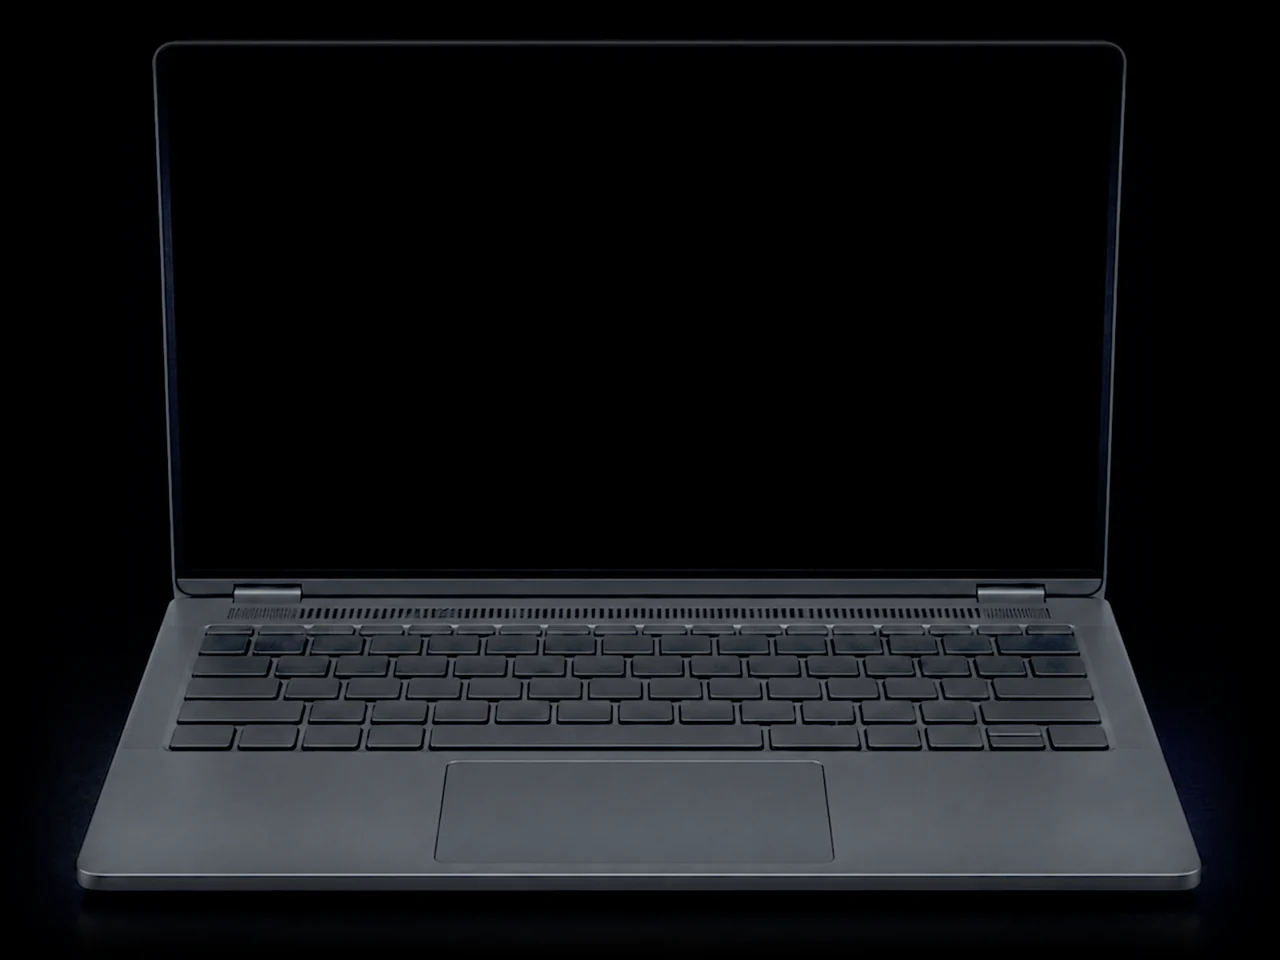
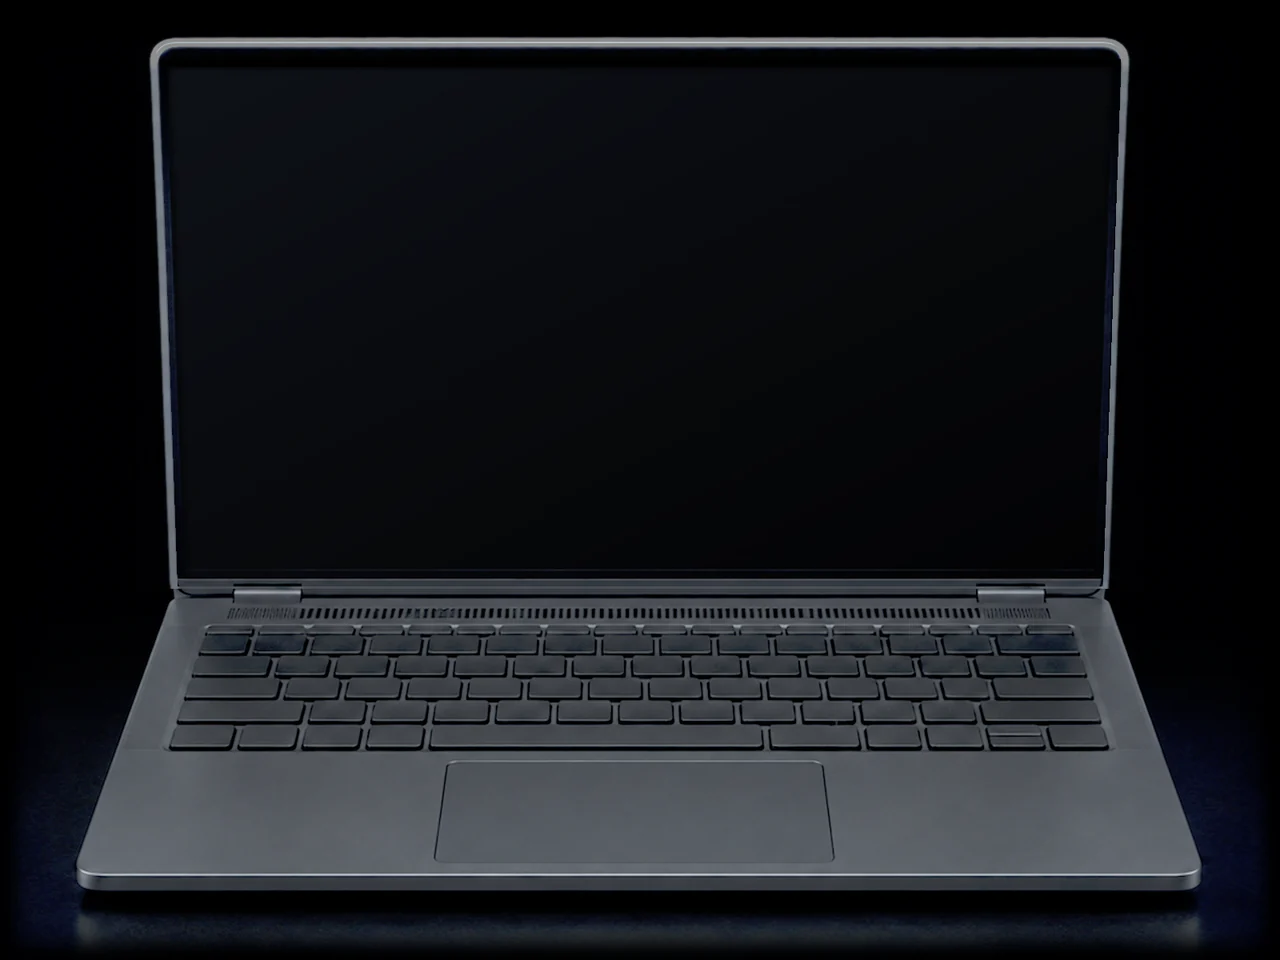
feat(site): lift the laptop with its inside awake, and give the lid a rim and a sheen
The laptop that is running was dimmer than the laptop before power, and the lid of both was a thin outline around pure black. The picture with the inside awake gets the same lift as the one before power, keeping the hue of its warm light; the lid's rim is widened so it survives being made small, the glass gets a faint cool sheen, and the edge fade no longer reaches the top rim. The body of the laptop with its screen lit is lifted to match. The script prints every region before and after.

diff --git a/site/tools/make_assets.py b/site/tools/make_assets.py
@@ -13,11 +13,16 @@ repository. This script turns them into what the site ships:
   src/assets/parts.json          where each part lies on the board, as fractions of the plate
   public/og.jpg                  the picture a link to the site is previewed with, 1200 x 630
 
-The two pictures of the machine before power are lifted on the way: their
-midtones and lit edges are raised so the machine reads as an object on an
-ordinary screen in a lit room, while the background stays black and nothing
-looks switched on. The script prints the mean brightness of the machine
-before and after.
+Four pictures are lifted on the way: the laptop and the board before power,
+the laptop with its inside awake, and the body (not the screen) of the laptop
+with its screen lit. Their midtones and lit edges are raised
+so the machine reads as an object on an ordinary screen in a lit room, while
+the background stays black and the machine before power does not look switched
+on. The lid of the two laptops with a dark screen gets a second, local lift:
+its thin rim is made a few pixels wider and brighter, and the glass gets a
+faint cool sheen, so the lid reads as a surface and not as a hole. The script
+prints the mean brightness of each machine, and of its palm rest, rim and
+glass, before and after.
 
 A stop's picture is not a file. The page stacks board-awake over board-dark
 once per part, each copy cut out by that part's mask, and fades the copies in.
@@ -42,6 +47,9 @@ BOARD_OUT = (1920, 1200)
 # The laptop with a margin, in source pixels: left, top, right, bottom.
 LAPTOP_BOX = (400, 250, 2000, 1450)
 LAPTOP_OUT = (1280, 960)
+# How far in from each edge the laptop pictures melt into black, in output pixels. The lid's top rim lies 40
+# pixels in, so the melt ends before it: a wider one dimmed the rim to a third.
+EDGE_FADE = 18
 MASK_OUT = (600, 375)
 FEATHER = 70  # in source pixels
 WHOLE_FEATHER = 160
@@ -53,8 +61,39 @@ WHOLE = [(0, 660), (2400, 660), (2400, 1500), (0, 1500)]
 # stays black. `box` is where the machine lies in the source picture, for the measurement.
 LIFT = {
     "laptop-dark": {"gamma": 0.55, "gain": 1.05, "black": 4, "full": 14, "box": (480, 290, 1910, 1380)},
+    "laptop-inside-awake": {
+        "gamma": 0.55,
+        "gain": 1.05,
+        "black": 4,
+        "full": 14,
+        "keep_colour": True,
+        "box": (480, 290, 1910, 1380),
+    },
     "board-dark": {"gamma": 0.62, "gain": 1.0, "black": 1.5, "full": 7, "box": (0, 660, 2400, 1500)},
+    # The laptop with its screen lit: only the body under the hinge is lifted, and less, so that it is as
+    # bright as the same body in the picture before it. The lit screen is left as it is.
+    "laptop-awake": {
+        "gamma": 0.75,
+        "gain": 1.05,
+        "black": 4,
+        "full": 14,
+        "keep_colour": True,
+        "below": 992,
+        "box": (480, 290, 1910, 1380),
+    },
 }
+
+# The lid of the laptop, in source pixels: the box its rim lies in, and the glass inside the rim.
+LID_BOX = (570, 296, 1830, 986)
+GLASS = [(610, 334), (1790, 334), (1768, 972), (632, 972)]
+RIM_WIDEN = 7  # the rim grows by half of this on each side
+RIM_GAIN = 1.3
+RIM_CAP = 140  # the widened rim is no brighter than this; pixels that were brighter keep their own value
+# The sheen on the glass: a cool grey, strongest at the top left corner and falling away to the bottom right.
+SHEEN = ((14, 17, 23), (2, 2, 3))
+# Parts of the laptop that are measured, in source pixels.
+PALM_REST = (700, 1230, 1100, 1330)
+RIM_TOP = (700, 300, 1700, 330)
 
 # The parts of the board, as polygons in source pixels.
 REGIONS = {
@@ -78,15 +117,35 @@ def on_black(path: Path) -> Image.Image:
     return Image.alpha_composite(black, plate).convert("RGB")
 
 
-def lift(picture: Image.Image, gamma: float, gain: float, black: float, full: float) -> Image.Image:
-    """Raise midtones and lit edges, level by level, and leave what is black as it is."""
+def lift(
+    picture: Image.Image,
+    gamma: float,
+    gain: float,
+    black: float,
+    full: float,
+    keep_colour: bool = False,
+    below: int | None = None,
+) -> Image.Image:
+    """
+    Raise midtones and lit edges, level by level, and leave what is black as it is. With `keep_colour` only
+    the brightness is raised: hue and saturation stay as they were, so a warm light stays as warm. With
+    `below`, only the part of the picture under that row is changed, with a soft edge.
+    """
     curve = []
     for level in range(256):
         t = min(1.0, max(0.0, (level - black) / (full - black)))
         t = t * t * (3 - 2 * t)
         raised = min(255.0, 255 * gain * (level / 255) ** gamma)
         curve.append(round(level + (raised - level) * t))
-    return picture.point(curve * 3)
+    raised = picture.point(curve * 3)
+    if keep_colour:
+        hue, saturation, _ = picture.convert("HSV").split()
+        raised = Image.merge("HSV", (hue, saturation, raised.convert("HSV").getchannel("V"))).convert("RGB")
+    if below is None:
+        return raised
+    under = Image.new("L", picture.size, 0)
+    ImageDraw.Draw(under).rectangle((0, below, picture.size[0], picture.size[1]), fill=255)
+    return Image.composite(raised, picture, under.filter(ImageFilter.GaussianBlur(10)))
 
 
 def brightness(picture: Image.Image, box: tuple[int, int, int, int]) -> float:
@@ -94,16 +153,56 @@ def brightness(picture: Image.Image, box: tuple[int, int, int, int]) -> float:
     return ImageStat.Stat(picture.crop(box).convert("L")).mean[0]
 
 
-def lifted(plates: Path, name: str) -> Image.Image:
-    """A picture of the machine before power, lifted, with its measurement printed."""
+def lid_lift(picture: Image.Image) -> Image.Image:
+    """Widen and brighten the rim of the lid, and lay a faint cool sheen on its glass. Nothing else changes."""
+    lid = picture.crop(LID_BOX)
+    # The rim: every pixel takes the brightest value near it, so a line two pixels wide survives being made small.
+    wide = lid.filter(ImageFilter.MaxFilter(RIM_WIDEN)).filter(ImageFilter.GaussianBlur(0.8))
+    wide = wide.point([min(RIM_CAP, round(level * RIM_GAIN)) for level in range(256)] * 3)
+    # Only the rim is widened: the glass inside it and the hinge under it keep their own pixels.
+    glass = Image.new("L", PLATE, 0)
+    ImageDraw.Draw(glass).polygon(GLASS, fill=255)
+    keep = ImageChops.invert(glass.filter(ImageFilter.MaxFilter(21))).crop(LID_BOX)
+    rim = Image.composite(wide, lid, keep)
+    out = picture.copy()
+    out.paste(ImageChops.lighter(lid, rim), LID_BOX[:2])
+    # The sheen: a diagonal fall of a cool grey, inside the glass only, added to what is there.
+    near, far = SHEEN
+    left, top = min(x for x, _ in GLASS), min(y for _, y in GLASS)
+    right, bottom = max(x for x, _ in GLASS), max(y for _, y in GLASS)
+    down = Image.linear_gradient("L")
+    ramp = ImageChops.invert(ImageChops.add(down, down.transpose(Image.TRANSPOSE), scale=2))
+    ramp = ramp.resize((right - left, bottom - top), Image.BICUBIC)
+    fall = Image.new("L", PLATE, 0)
+    fall.paste(ramp, (left, top))
+    channels = [fall.point([round(f + (n - f) * level / 255) for level in range(256)]) for n, f in zip(near, far)]
+    sheen = Image.merge("RGB", channels)
+    soft = glass.filter(ImageFilter.GaussianBlur(5))
+    return Image.composite(ImageChops.add(out, sheen), out, soft)
+
+
+def lifted(plates: Path, name: str, lid: bool = False) -> Image.Image:
+    """A picture lifted, with its measurements printed. With `lid`, the laptop's lid gets its own lift as well."""
     setting = dict(LIFT[name])
     box = setting.pop("box")
     before = on_black(plates / f"lux-{name}.png")
     after = lift(before, **setting)
+    if lid:
+        after = lid_lift(after)
     print(
         f"{name}: mean brightness of the machine {brightness(before, box):.1f} -> {brightness(after, box):.1f}, "
         f"background corner {brightness(before, (0, 0, 300, 150)):.2f} -> {brightness(after, (0, 0, 300, 150)):.2f}"
     )
+    if not lid and name.startswith("laptop"):
+        print(f"  palm rest {brightness(before, PALM_REST):.1f} -> {brightness(after, PALM_REST):.1f}")
+    if lid:
+        glass = (GLASS[0][0] + 20, GLASS[0][1] + 20, GLASS[2][0] - 20, GLASS[2][1] - 20)
+        print(
+            f"  palm rest {brightness(before, PALM_REST):.1f} -> {brightness(after, PALM_REST):.1f}, "
+            f"glass {brightness(before, glass):.1f} -> {brightness(after, glass):.1f}, "
+            f"brightest of the top rim {before.crop(RIM_TOP).convert('L').getextrema()[1]} -> "
+            f"{after.crop(RIM_TOP).convert('L').getextrema()[1]}"
+        )
     return after
 
 
@@ -144,8 +243,9 @@ def preview(plates: Path, dark: Image.Image) -> Image.Image:
     picture = Image.new("RGB", PREVIEW, (0, 0, 0))
     height = 470
     size = (round(height * LAPTOP_OUT[0] / LAPTOP_OUT[1]), height)
-    fade = edge_fade(LAPTOP_OUT, 56).convert("RGB")
-    awake = on_black(plates / "lux-laptop-awake.png")
+    fade = edge_fade(LAPTOP_OUT, EDGE_FADE).convert("RGB")
+    setting = {key: value for key, value in LIFT["laptop-awake"].items() if key != "box"}
+    awake = lift(on_black(plates / "lux-laptop-awake.png"), **setting)
     for laptop, left in ((dark, -8), (awake, PREVIEW[0] - size[0] + 8)):
         cut = ImageChops.multiply(laptop.crop(LAPTOP_BOX).resize(LAPTOP_OUT, Image.LANCZOS), fade)
         # Lighter of the two where they overlap, so neither laptop's black margin covers the other.
@@ -170,7 +270,7 @@ def main() -> None:
         raise SystemExit(__doc__)
     plates = Path(arguments[0])
     if "--preview-only" in sys.argv:
-        preview(plates, lifted(plates, "laptop-dark")).save("public/og.jpg", quality=88, optimize=True)
+        preview(plates, lifted(plates, "laptop-dark", lid=True)).save("public/og.jpg", quality=88, optimize=True)
         print(f"public/og.jpg  {PREVIEW}  {Path('public/og.jpg').stat().st_size} bytes")
         return
     out = Path("src/assets")
@@ -182,11 +282,11 @@ def main() -> None:
 
     # Three pictures of one laptop from one view, cut alike, so that one can fade into the next.
     laptops = {
-        "laptop-dark": lifted(plates, "laptop-dark"),
-        "laptop-inside": on_black(plates / "lux-laptop-inside-awake.png"),
-        "laptop-awake": on_black(plates / "lux-laptop-awake.png"),
+        "laptop-dark": lifted(plates, "laptop-dark", lid=True),
+        "laptop-inside": lifted(plates, "laptop-inside-awake", lid=True),
+        "laptop-awake": lifted(plates, "laptop-awake"),
     }
-    fade = edge_fade(LAPTOP_OUT, 56).convert("RGB")
+    fade = edge_fade(LAPTOP_OUT, EDGE_FADE).convert("RGB")
     for name, laptop in laptops.items():
         cut = laptop.crop(LAPTOP_BOX).resize(LAPTOP_OUT, Image.LANCZOS)
         ImageChops.multiply(cut, fade).save(out / f"{name}.webp", quality=86, method=6)

diff --git a/site/ASSETS.md b/site/ASSETS.md
@@ -7,8 +7,8 @@ Every picture on the site is an illustration of a fictional laptop and a fiction
 | File                            | What it is                                                             | How it was made                                                                                                                                                                                                                        |
 | ------------------------------- | ---------------------------------------------------------------------- | -------------------------------------------------------------------------------------------------------------------------------------------------------------------------------------------------------------------------------------- |
 | `src/assets/laptop-dark.webp`   | The laptop before power, 1280 x 960                                    | A generated picture (2400 x 1500), lifted (see below), cropped close to the laptop, edges faded to black, resized and saved as WebP by `tools/make_assets.py`                                                                          |
-| `src/assets/laptop-inside.webp` | The same laptop with its inside awake and its screen black, 1280 x 960 | A generated picture of the same laptop from the same view, cropped, faded and saved alike, so that one picture can fade into the next                                                                                                  |
-| `src/assets/laptop-awake.webp`  | The same laptop with its screen lit by a dawn sky, 1280 x 960          | As above. The sky on its screen is part of the generated picture                                                                                                                                                                       |
+| `src/assets/laptop-inside.webp` | The same laptop with its inside awake and its screen black, 1280 x 960 | A generated picture of the same laptop from the same view, lifted (see below), cropped, faded and saved alike, so that one picture can fade into the next                                                                              |
+| `src/assets/laptop-awake.webp`  | The same laptop with its screen lit by a dawn sky, 1280 x 960          | As above, with only its body under the hinge lifted. The sky on its screen is part of the generated picture and is not changed                                                                                                         |
 | `src/assets/board-dark.webp`    | The board before power, 1920 x 1200                                    | A generated picture (2400 x 1500), lifted (see below), resized and saved as WebP by the same script                                                                                                                                    |
 | `src/assets/board-awake.webp`   | The same board with every part lit, 1920 x 1200                        | A generated picture of the same board from the same view, so that parts line up with the dark one; resized and saved as WebP by the same script                                                                                        |
 | `src/assets/masks/<part>.webp`  | Eight soft masks, 600 x 375, one per part of the board                 | Composed in code: a polygon per part, drawn and blurred by the same script. The shape is in the alpha channel                                                                                                                          |
@@ -25,18 +25,24 @@ python tools/make_assets.py <folder with the source pictures>
 
 It needs Python 3 with Pillow, and is run from this folder. With `--preview-only` after the folder it writes only `public/og.jpg`. The name on that picture is set in the first of Segoe UI Bold, Arial Bold and DejaVu Sans Bold that the machine has, so on another machine the letters may differ slightly.
 
-## The machine before power is lifted
+## The dark pictures are lifted
 
-As generated, the laptop and the board before power were close to the black of the page, and on an ordinary screen in a lit room the laptop was hard to tell from the background. The script raises their midtones and lit edges with one curve per picture (`LIFT` in `tools/make_assets.py`): a level becomes `gain * level ** gamma`, levels at or under a black point are left alone, and the change is complete a few levels above it. The background therefore stays black, and no colour is added, so the machine still reads as not powered.
+As generated, the laptop and the board before power, and the laptop with its inside awake, were close to the black of the page. On an ordinary screen in a lit room the laptop was hard to tell from the background, and the laptop that is running was dimmer than the one before power. The script raises midtones and lit edges with one curve per picture (`LIFT` in `tools/make_assets.py`): a level becomes `gain * level ** gamma`, levels at or under a black point are left alone, and the change is complete a few levels above it. The background therefore stays black. No colour is added to the machine before power, so it still reads as not powered; the laptop with its inside awake keeps the hue and saturation of its warm light and only gets brighter.
 
-The script prints the mean brightness of the machine's region of each source picture, on a scale of 0 to 255, before and after:
+The lid of the two laptops with a dark screen gets a second, local lift (`lid_lift`). Its rim is two or three pixels wide in the source and all but vanished when the picture was made small, so every rim pixel takes the brightest value near it, which makes the rim a few pixels wider, and that widened rim is capped below the rim's own highlights. The glass inside the rim gets a faint cool sheen that falls away from the top left corner, so the lid reads as a dark surface and not as a hole. The edge fade of the laptop pictures is 18 pixels: a wider one reached the top rim and dimmed it to a third.
 
-| Picture             | Before | After | Background corner |
-| ------------------- | ------ | ----- | ----------------- |
-| Laptop before power | 9.6    | 25.2  | 0.19, unchanged   |
-| Board before power  | 10.1   | 26.9  | 0.06, unchanged   |
+The laptop with its screen lit is lifted only under the hinge, and less, so its body is as bright as the same body in the picture it fades in over. Its screen is not changed.
 
-The two later pictures of the laptop and the lit board are not changed.
+The script prints the mean brightness of each region of each source picture, on a scale of 0 to 255, before and after:
+
+| Picture                  | Whole machine  | Palm rest    | Glass of the lid | Background corner |
+| ------------------------ | -------------- | ------------ | ---------------- | ----------------- |
+| Laptop before power      | 9.6 to 31.2    | 36.7 to 91.9 | 0.0 to 9.6       | 0.19, unchanged   |
+| Laptop with inside awake | 14.2 to 35.0   | 35.4 to 86.9 | 0.1 to 9.6       | 0.08, unchanged   |
+| Laptop with screen lit   | 103.6 to 110.7 | 69.8 to 96.2 | not changed      | 0.09, unchanged   |
+| Board before power       | 10.1 to 26.9   |              |                  | 0.06, unchanged   |
+
+The lit board is not changed.
 
 ## How a stop's picture is put together
 
@@ -44,7 +50,7 @@ No stop has a picture file of its own. The page draws `board-dark.webp` and stac
 
 Which parts are lit at a stop is not decided here. It is read from the `picture` field of each screen in `content/`. The same field can name the lit parts a screen is about; those get a second copy of the same cut-out added on top, which makes them a little brighter. Once every part is lit, the ground between the parts lights too, through the mask of the whole board.
 
-The strip after the story draws the same board seven times, small, each with the parts lit that its stop ends with. The two laptops of the experiments page are the pictures with the screen lit and with the inside awake, side by side.
+The strip after the story draws the same board seven times, small, each with the parts lit that its stop ends with. A small picture of the whole board looks alike at every stop, so each is drawn close on the parts its stop is about, and the last, where every part is lit, shows the whole board. The two laptops of the experiments page are the pictures with the screen lit and with the inside awake, side by side.
 
 At the pilot screen and at the end of the story the board gives way to the laptop with its inside awake, and on the last screen the picture with the lit screen fades in over it. The three laptop pictures are cut alike, so nothing moves when one fades into the next.
 
